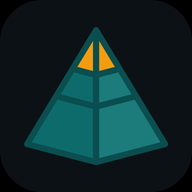
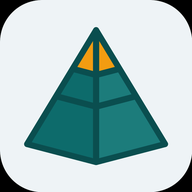
Fix mark contrast and nav visibility on phone and desktop.

diff --git a/theme.js b/theme.js
@@ -31,6 +31,7 @@
     var headerSrc = markSrc();
     var tile = tileSrc();
     document.querySelectorAll("img.brand-mark, img.aia-mark").forEach(function (img) {
+      if (!img.getAttribute("alt")) img.setAttribute("alt", "Automate It Away");
       var kind = (img.getAttribute("data-mark") || "").toLowerCase();
       if (kind === "orange") { img.setAttribute("src", orangeSrc()); return; }
       if (kind === "outline") { img.setAttribute("src", outlineSrc()); return; }
@@ -171,7 +172,7 @@
       "main,#queue,.queue,#gate{padding-bottom:calc(24px + env(safe-area-inset-bottom,0px))}" +
       ".queue-empty,#queue .empty,body.has-desk-nav #queue > :last-child{margin-bottom:24px}" +
       "@media (max-width:860px){header .brand-name,.site-header .brand-name, header > a strong, header .brand strong{display:inline!important;font-size:13px!important;line-height:1.15!important;max-width:11.5em;white-space:normal}header .brand-short,.site-header .brand-short{display:none!important}}@media (max-width:430px){header .brand-name,.site-header .brand-name, header > a strong, header .brand strong{display:none!important}header .brand-short,.site-header .brand-short{display:inline!important;color:#fff!important;font-weight:800}.hdr-tools{gap:6px}.who-copy > span{display:none!important}header nav.site-nav a[href='/login'], header .nav.site-nav a[href='/login'],header nav.site-nav a[href='login.html'], header .nav.site-nav a[href='login.html'],header nav.site-nav a[href='/onboard'], header .nav.site-nav a[href='/onboard'],header nav.site-nav a[href='onboard.html'], header .nav.site-nav a[href='onboard.html']{display:none!important}header, .site-header{grid-template-columns:auto 1fr auto;row-gap:6px}header .site-nav, header nav.site-nav{grid-column:1/-1;width:100%!important}}" +
-      "@media (max-width:420px){.hero-grid,.facts,.words,.parts,.steps{grid-template-columns:1fr!important}.reels,.kpis{grid-template-columns:1fr 1fr!important}.who-pic{width:28px;height:28px;flex-basis:28px}a.btn, .btn{min-height:44px}}"+ "button.go,a.go,.go,.use,button.use,.primary,a.primary,button.or,a.or,.pills button.on,.kinds button.on{color:#0c1116!important}button.go,a.go,.go,.use,.primary,a.primary{background:var(--orange,#f39c12)!important}header .theme-btn,.theme-btn{color:#fff!important;background:#083838!important;border:1px solid rgba(255,255,255,.45)!important}";
+      "@media (max-width:420px){.hero-grid,.facts,.words,.parts,.steps{grid-template-columns:1fr!important}.reels,.kpis{grid-template-columns:1fr 1fr!important}.who-pic{width:28px;height:28px;flex-basis:28px}a.btn, .btn{min-height:44px}}"+ "button.go,a.go,.go,.use,button.use,.primary,a.primary,button.or,a.or,.pills button.on,.kinds button.on{color:#0c1116!important}button.go,a.go,.go,.use,.primary,a.primary{background:var(--orange,#f39c12)!important}header .theme-btn,.theme-btn,[data-theme-btn]{color:#0c1116!important;background:#f39c12!important;border:0!important}header nav a.on,header .site-nav a.on{color:#fff!important;box-shadow:inset 0 -3px 0 #f39c12}";
     document.head.appendChild(s);
   }
   function esc(s) {
@@ -332,7 +333,7 @@
   function ensureFixCss() {
     if (!document.getElementById("aia-ui-fix-link")) {
       var l = document.createElement("link");
-      l.id = "aia-ui-fix-link"; l.rel = "stylesheet"; l.href = "/ui-fix.css?v=20261004";
+      l.id = "aia-ui-fix-link"; l.rel = "stylesheet"; l.href = "/ui-fix.css?v=20261008";
       document.head.appendChild(l);
     }
     return;

diff --git a/ui-fix.css b/ui-fix.css
@@ -840,3 +840,69 @@ header .brand-name { overflow: hidden; text-overflow: ellipsis; white-space: now
   header .brand-name { max-width: none; }
   header nav.site-nav, header .site-nav { flex-wrap: wrap; }
 }
+
+
+/* 2026-10-08 visibility + function pass.
+   Active nav was orange ink on the teal bar (~2.9:1).
+   Theme chip stays dark-on-orange on phone and desktop so Auto is not the same color as the bar.
+   Mark uses contain so the pyramid stroke is not cropped. */
+header nav.site-nav a.on,
+header .site-nav a.on,
+header nav a.on,
+.site-header .nav a.on,
+header .site-nav a[aria-current="page"] {
+  color: #fff !important;
+  background: rgba(255,255,255,.12) !important;
+  box-shadow: inset 0 -3px 0 #f39c12 !important;
+  border-radius: 8px;
+}
+#desk-nav a,
+#desk-nav button {
+  color: #f4fffe !important;
+  font-size: 13px !important;
+  line-height: 1.15 !important;
+  min-height: 48px !important;
+  padding: 6px 4px !important;
+}
+#desk-nav a.on,
+#desk-nav button.on {
+  color: #fff !important;
+  box-shadow: inset 0 3px 0 #f39c12 !important;
+}
+button.theme-btn,
+header .theme-btn,
+.site-header .theme-btn,
+[data-theme-btn] {
+  color: #0c1116 !important;
+  background: #f39c12 !important;
+  border: 0 !important;
+  border-radius: 999px !important;
+  min-height: 44px !important;
+  height: 44px !important;
+  padding: 0 14px !important;
+  font-weight: 800 !important;
+}
+header .brand-mark,
+.site-header .brand-mark,
+img.aia-mark,
+img.brand-mark {
+  object-fit: contain !important;
+  background: transparent !important;
+  width: 40px !important;
+  height: 40px !important;
+  flex: 0 0 40px !important;
+  border-radius: 22% !important;
+}
+button.aia-tip:empty::before,
+button.aia-tip[aria-label]::before {
+  content: none;
+}
+html.dark .muted,
+html.dark .sub,
+html.dark p.note {
+  color: #c5d4d8 !important;
+}
+@media (max-width: 430px) {
+  header .brand-short { color: #fff !important; font-size: 16px !important; }
+  .who-chip.signed-out { max-width: 42vw !important; }
+}
